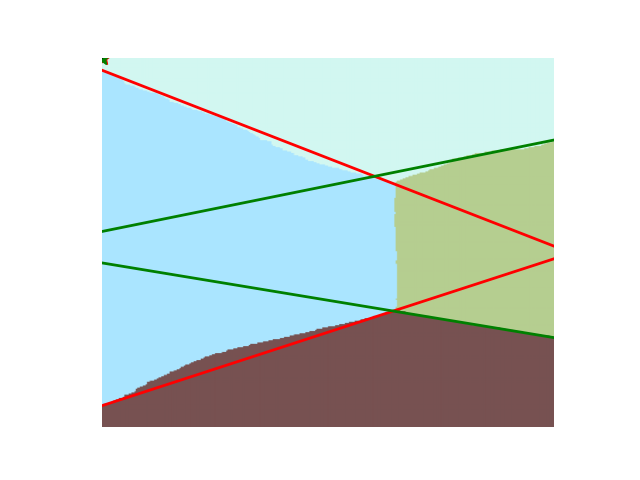
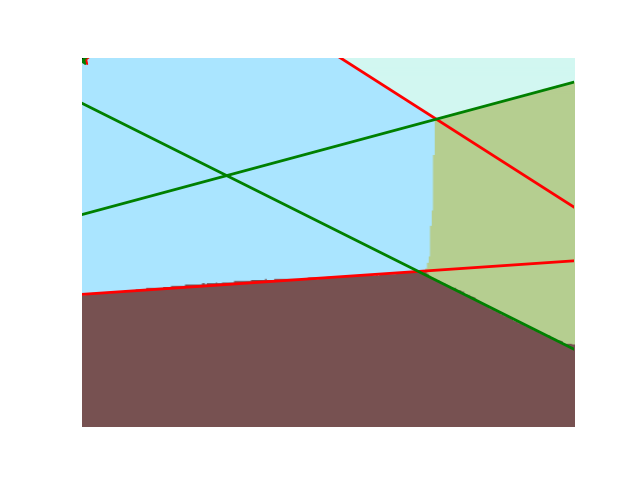
wall estimation

diff --git a/cv/pose_estimation/pose.py b/cv/pose_estimation/pose.py
@@ -432,7 +432,6 @@ def _compute_scene(segmented_img):
     H, W = img.shape[:2]
     scene = dict.fromkeys(['img_size'] + WALL_TYPES)
     scene['img_size'] = {'height': H, 'width': W}
-    scene['vanishing_points'] = None
     for i, wall_type in enumerate(WALL_TYPES):
         wall_data = dict.fromkeys(['present', 'frac', 'line1', 'line2', 'vp'])
         scene[wall_type] = wall_data
@@ -643,7 +642,6 @@ def compute_camera_parameters(segmented_img, save_scene_visual=False):
         vp1 = scene[wall]['vp']
         focal_len = DEFAULT_FOCAL_LENGTH
         vp2 = _compute_vp2(vp1, principal_point, focal_len)
-        print(vp2)
         confidence = scene[wall]['confidence']
     elif vp_mode == 'default':
         vp1 = DEFAULT_VP1
@@ -653,9 +651,8 @@ def compute_camera_parameters(segmented_img, save_scene_visual=False):
     else:
         raise ValueError('Invalid vp_mode {}'.format(vp_mode))
 
+    scene['vp_mode'] = vp_mode
     scene['vanishing_points'] = [vp1, vp2]
-    print('vp1 -> {}'.format(vp1))
-    print('vp2 -> {}'.format(vp2))
     if confidence < 0.8:
         vp1 = DEFAULT_VP1
         vp2 = DEFAULT_VP2
@@ -678,5 +675,4 @@ def compute_camera_parameters(segmented_img, save_scene_visual=False):
     if save_scene_visual:
         _visualize(segmented_img, scene)
 
-    print('vp_mode -> {}, confidence -> {:0.4f}'.format(vp_mode, confidence))
     return C, focal_len, scene

diff --git a/cv/pose_estimation/compare.py b/cv/pose_estimation/compare.py
@@ -29,11 +29,11 @@ with open('_camera_params.json') as f:
     dct = json.load(f)
 
 segm_img = cv2.imread(segm_img_path)
-M_awld, focal_len, scene = ccp_awld(segm_img, save_scene_visual=False)
+M_awld, focal_len, scene = ccp_awld(segm_img, save_scene_visual=True)
 
 headerprint('FOCAL LENGTH')
 print('fspy -> {}'.format(dct['cameraParameters']['relativeFocalLength']))
-print('\naarwild -> {}'.format(focal_len))
+print('aarwild -> {}'.format(focal_len))
 
 headerprint('VANISHING POINTS')
 print('fspy -> ')
@@ -52,7 +52,8 @@ print('\naarwild -> ')
 print(M_awld)
 
 headerprint('DIFFERENCE (A - F)')
-print(M_awld - M_fspy)
+print(M_awld[:3, :3] - M_fspy[:3, :3])
+
 headerprint('SIGN')
 sgn = np.sign(M_awld * M_fspy)[:3, :3].astype(int)
 print(sgn)
